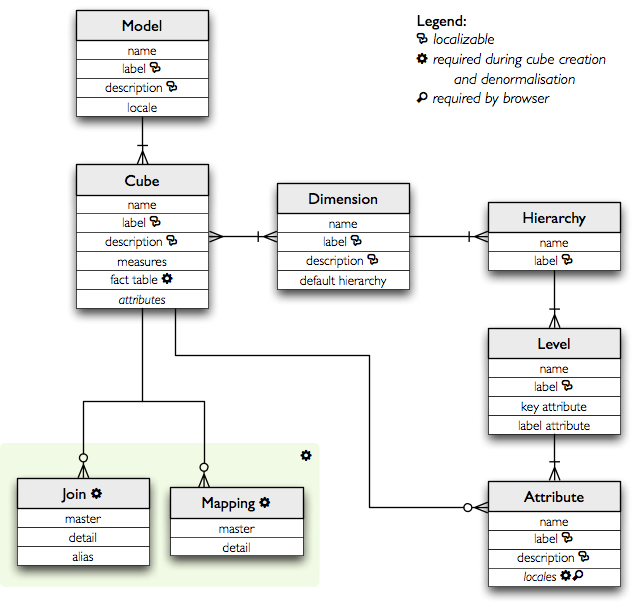
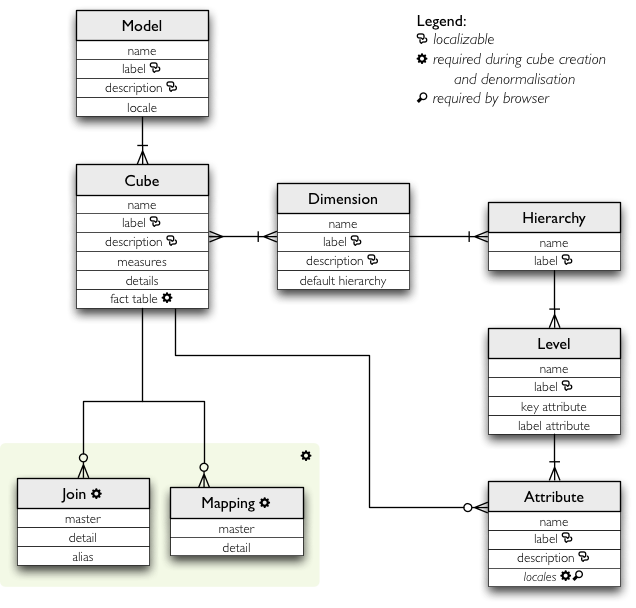
added 'details' to cube - attributes that will contain fact details which are not relevant to aggregation, but might be interesting when displaying facts; reflect change in documentation + update model diagram

diff --git a/cubes/model.py b/cubes/model.py
@@ -394,6 +394,8 @@ class Cube(object):
     	* name: cube name
     	* label: name that will be displayed (human readable)
     	* measures: list of fact measures
+    	* details: list attributes that give more information about facts, but are not relevant
+        from analysis or aggregation point of view in this context
     	* dimensions: list of fact dimensions
     	* mappings: map logical attributes to physical dataset fields (table columns)
     	* joins
@@ -414,7 +416,7 @@ class Cube(object):
         self.label = info.get("label", "")
         self.description = info.get("description", "")
         self.measures = attribute_list(info.get("measures", []))
-        self.attributes = info.get("attributes", [])
+        self.details = attribute_list(info.get("details", []))
         self.model = None
         self.mappings = info.get("mappings", {})
         self.fact = info.get("fact", None)
@@ -478,6 +480,11 @@ class Cube(object):
             array.append(attr.__dict__())
         out.setnoempty("measures", array)
 
+        array = []
+        for attr in self.details:
+            array.append(attr.__dict__())
+        out.setnoempty("details", array)
+
         if expand_dimensions:
             dims = [dim.to_dict(**options) for dim in self.dimensions]
         else:
@@ -529,6 +536,10 @@ class Cube(object):
             if not isinstance(measure, Attribute):
                 results.append( ('error', "Measure '%s' in cube '%s' is not instance of Attribute" % (measure, self.name)) )
 
+        for detail in self.details:
+            if not isinstance(detail, Attribute):
+                results.append( ('error', "Detail '%s' in cube '%s' is not instance of Attribute" % (measure, self.name)) )
+
         # 2. check whether dimension attributes are unique
 
         
@@ -546,6 +557,12 @@ class Cube(object):
                 if attrib.name in attr_locales:
                     util.localize_common(attrib, attr_locales[attrib.name])
 
+        attr_locales = locale.get("details")
+        if attr_locales:
+            for attrib in self.details:
+                if attrib.name in attr_locales:
+                    util.localize_common(attrib, attr_locales[attrib.name])
+
     def localizable_dictionary(self):
         locale = {}
         locale.update(util.get_localizable_attributes(self))
@@ -554,6 +571,12 @@ class Cube(object):
         locale["measures"] = mdict
         
         for measure in self.measures:
+            mdict[measure.name] = measure.localizable_dictionary()
+
+        mdict = {}
+        locale["details"] = mdict
+
+        for measure in self.details:
             mdict[measure.name] = measure.localizable_dictionary()
             
         return locale

diff --git a/cubes/backends/sql/builder.py b/cubes/backends/sql/builder.py
@@ -100,12 +100,15 @@ class SQLDenormalizer(object):
     def _collect_attributes(self):
         """Collect all attributes from model and create mappings from logical to physical representation
         """
-        self.logger.info("collecting fact attributes...")
+        self.logger.info("collecting fact attributes (key, mesures and details)...")
 
         # self.attributes contains tuples: attribute, dimension
         self.attributes = [ Attribute(self.cube_key, str(self.cube_key), None, None) ]
 
         for attribute in self.cube.measures:
+            self.attributes.append( Attribute(attribute.name, str(attribute.name), None, None) )
+
+        for attribute in self.cube.details:
             self.attributes.append( Attribute(attribute.name, str(attribute.name), None, None) )
 
         self.logger.info("collecting dimension attributes...")

diff --git a/cubes/backends/sql/browser.py b/cubes/backends/sql/browser.py
@@ -314,6 +314,11 @@ class CubeQuery(object):
             cellattr = CellAttribute(measure, column.name, column)
             self.selection[column.name] = cellattr
 
+        for attr in self.cube.details:
+            column = self.column(attr.name)
+            cellattr = CellAttribute(attr, column.name, column)
+            self.selection[column.name] = cellattr
+
         # FIXME: missing (hybrid) cube detail attributes - not implemented yet
 
         for dimension in self.cube.dimensions:

diff --git a/doc/model.rst b/doc/model.rst
@@ -127,6 +127,10 @@ name           dimension name
 label          human readable name - can be used in an application
 measures       list of cube measures (as Attributes)
 dimensions     list of cube dimension names
+details        list of fact details (as Attributes) - attributes
+               that are not relevant to aggregation, but are
+               nice-to-have when displaying facts (might be
+               separately stored)
 joins          specification of physical table joins
 mappings       mapping of logical attributes to physical attributes
 ============== ====================================================
@@ -137,6 +141,9 @@ Example::
         "name": "date",
         "label": "Dátum",
         "dimensions": [ "date", ... ]
+
+    	"measures": [...],
+    	"details": [...],
 
     	"fact": "fact_table_name",
     	"mappings": { ... },

diff --git a/doc/localization.rst b/doc/localization.rst
@@ -44,8 +44,9 @@ considered in most cases. You can not change structure of mode in translation fi
 does not match you will get warning or error, depending on structure change severity.
 
 There is one major difference between master model file and model translations: all attribute
-lists, such as cube measures or dimension level attributes are dictionaries, not arrays. Keys are
-attribute names, values are metadata translations. Therefore in master model file you will have::
+lists, such as cube measures, cube details or dimension level attributes are dictionaries, not
+arrays. Keys are attribute names, values are metadata translations. Therefore in master model file
+you will have::
 
     attributes = [
                     { "name": "name", "label": "Name" },
